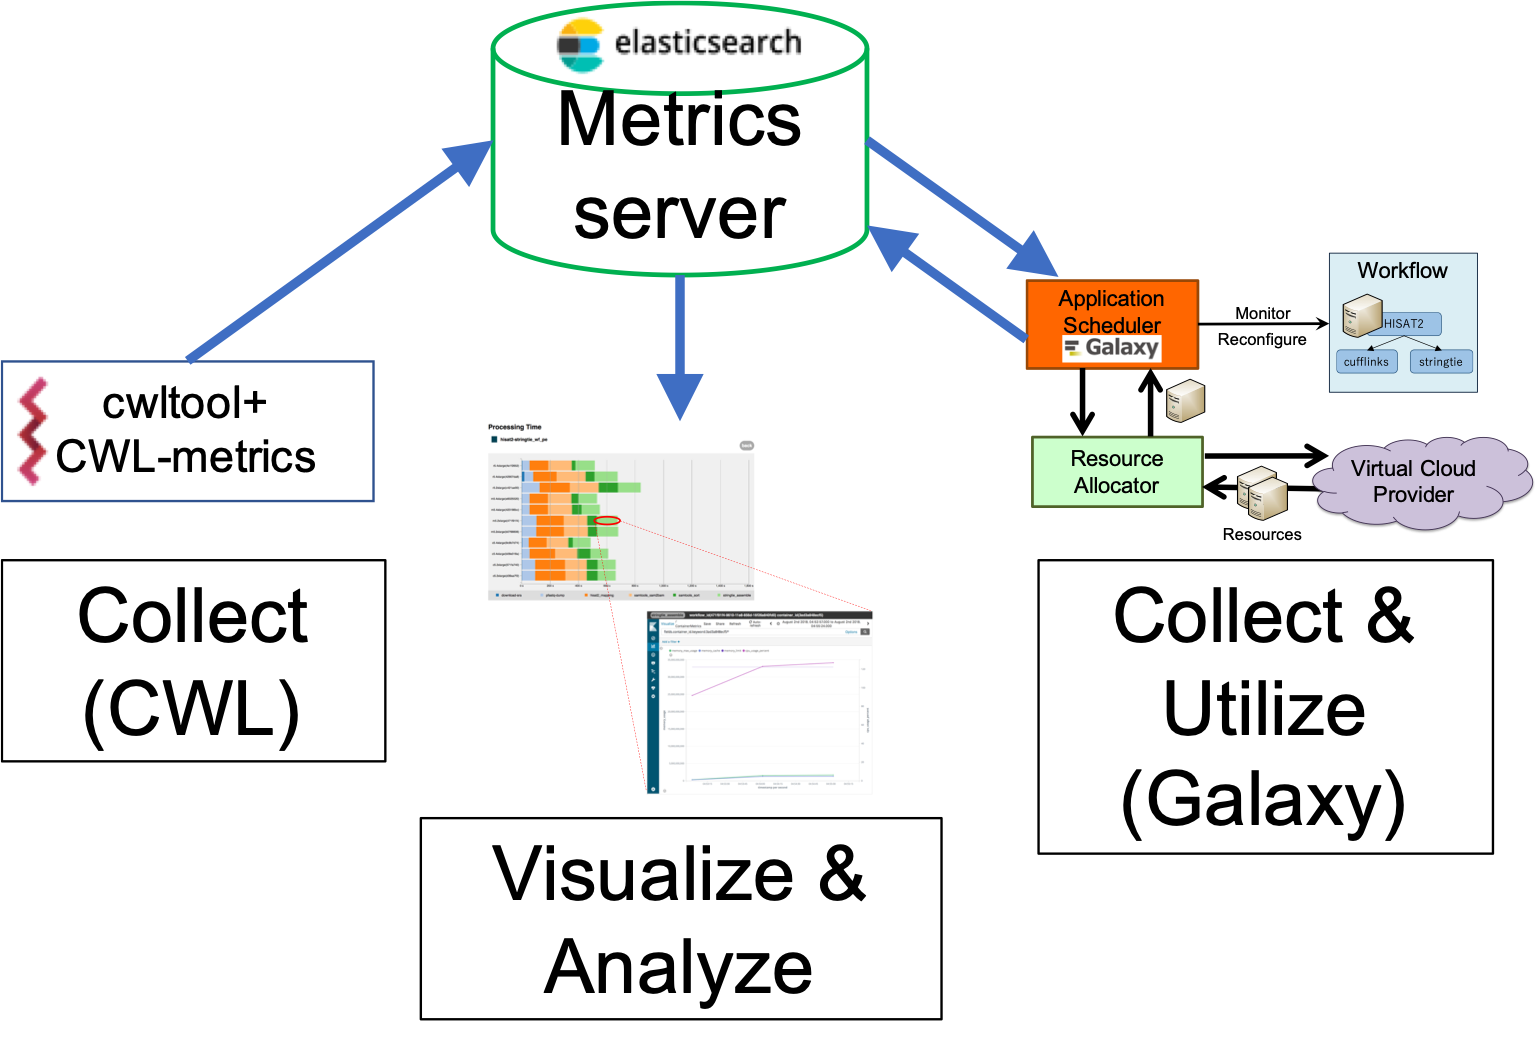
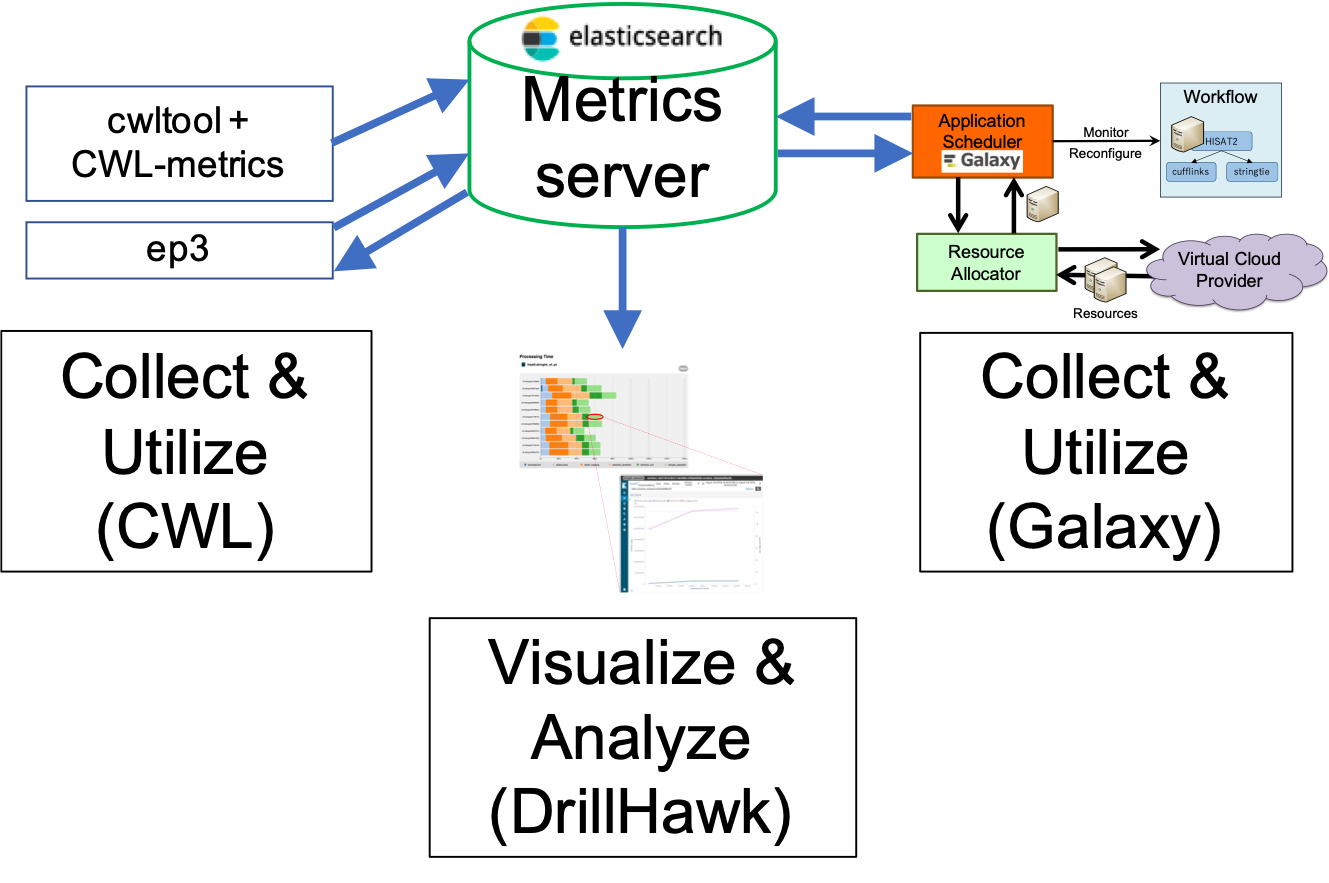
Update CREST project

diff --git a/sc21/CREST/index.md b/sc21/CREST/index.md
@@ -61,7 +61,7 @@ We have developed a prototype for genome analysis workflows as described below.
 Collecting workflow execution records such as execution time for each step is important for selecting appropriate computing resources. We have developed an ecosystem to collect and utilize workflow execution records including our reconfiguarion prototype.
 
 ![ecosystem](figs/metrics-ecosystem.png)
-- We developed a prototype of our reconfiguration system based on Galaxy as described above. It collects and utilizes workflow metrics and container metrics.
+- We developed a prototype of our reconfiguration system based on Galaxy and ep3, a CWL-based workflow engine developed by our project. It collects and utilizes workflow metrics and container metrics.
 - We also developed DrillHawk, which is a visualizer of workflow metrics.
 - Our reconfiguration system and DrillHawk utilize container metrics and workflow metrics obtained by CWL-metrics as well as the metrics obtained by our prototype.
 
@@ -76,6 +76,7 @@ Our prototype introduces two types of virtual workflow step: `prepare job` and `
 - The `reconf job` step is invoked before executing each step and allocates computing resources according to the allocation plan.
 
 These virtual steps interact with an AS module to make a plan and to allocate computing resources. An *AS core* is a reconfiguration algorithm in the AS module and is designed as an external program to easily replace with other reconfiguration algorithm. We integrated our prototype with the reconfiguration algorithm by Hokkaido University group.
+An AS module and RA can be integrated with [ep3](https://github.com/tom-tan/ep3).
 
 ### Metrics Collection Scheme in our Prototype
 
